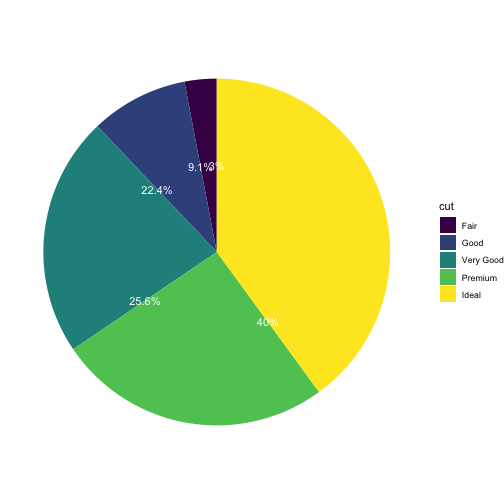
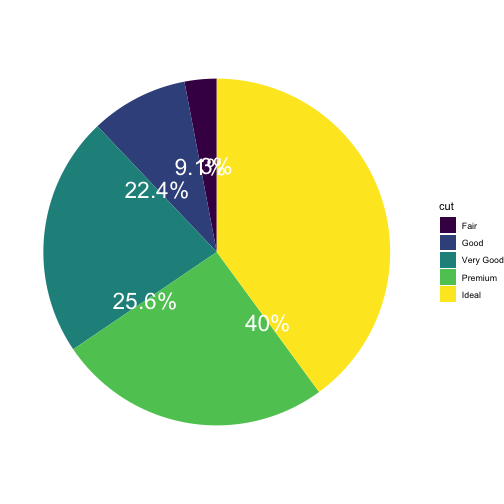
just bigger text

Changed region(s): [[0.2381, 0.2976, 0.4762, 0.4167], [0.2083, 0.5655, 0.3571, 0.625], [0.4762, 0.625, 0.5655, 0.6548]]

diff --git a/2023-11-07-ggplot-pie-charts/ggplot-pie-charts.html b/2023-11-07-ggplot-pie-charts/ggplot-pie-charts.html
@@ -22,7 +22,7 @@ class: inverse, left, bottom
 background-image: url(https://images.unsplash.com/photo-1603779702200-95b2785f2083?q=80&amp;w=1587&amp;auto=format&amp;fit=crop&amp;ixlib=rb-4.0.3&amp;ixid=M3wxMjA3fDB8MHxwaG90by1wYWdlfHx8fGVufDB8fHx8fA%3D%3D)
 background-size: cover
 # .Large[# Making pies in ggplot2]
-## .small[featuring `coord_polar(theta = "y")` and `geom_bar(position = "fill")`]]
+## .small[featuring `coord_polar(theta = "y")` and `geom_bar(position = "fill")`]
 #### .tiny[Gina Reynolds | 2023-10-25 |Image credit: RAPHAEL MAKSIAN, Upsplash]
 ???
 Title 
@@ -195,8 +195,11 @@ ggplot() +
 * stat_count(position = "fill",
 *            geom = "text",
 *            color = "white",
-*            aes(label = after_stat(count*100/sum(count)) |&gt;
-*                  round(1) |&gt; paste0("%")))
+*            size = 8,
+*            aes(label =
+*                  after_stat(count*100/sum(count)) |&gt;
+*                     round(1) |&gt;
+*                     paste0("%")))
 ```
 ]
  
@@ -222,8 +225,11 @@ ggplot() +
   stat_count(position = "fill",
              geom = "text",
              color = "white",
-             aes(label = after_stat(count*100/sum(count)) |&gt;
-                   round(1) |&gt; paste0("%"))) -&gt;
+             size = 8,
+             aes(label =
+                   after_stat(count*100/sum(count)) |&gt;
+                      round(1) |&gt;
+                      paste0("%"))) -&gt;
 * classic_pie
 ```
 ]
@@ -275,6 +281,7 @@ classic_pie +
     stat_count(position = "fill", 
              geom = "text", 
              color = "white",
+             size = 8,
              aes(label = 
                    after_stat(count*100/
                                 sum(count)) |&gt; 
@@ -324,11 +331,11 @@ ggtrace::layer_after_scale(classic_pie, i = 2, verbose = T) %&gt;% data.frame()
 ## 4 #5DC863FF 25.6% 0.6552095 13791    1 0   0.9       FALSE     1     4
 ## 5 #FDE725FF   40% 0.3995365 21551    1 0   0.9       FALSE     1     5
 ##        ymax xmin xmax      ymin colour size angle hjust vjust alpha family
-## 1 1.0000000    0    0 0.9701520  white 3.88     0   0.5   0.5    NA       
-## 2 0.9701520    0    0 0.8791991  white 3.88     0   0.5   0.5    NA       
-## 3 0.8791991    0    0 0.6552095  white 3.88     0   0.5   0.5    NA       
-## 4 0.6552095    0    0 0.3995365  white 3.88     0   0.5   0.5    NA       
-## 5 0.3995365    0    0 0.0000000  white 3.88     0   0.5   0.5    NA       
+## 1 1.0000000    0    0 0.9701520  white    8     0   0.5   0.5    NA       
+## 2 0.9701520    0    0 0.8791991  white    8     0   0.5   0.5    NA       
+## 3 0.8791991    0    0 0.6552095  white    8     0   0.5   0.5    NA       
+## 4 0.6552095    0    0 0.3995365  white    8     0   0.5   0.5    NA       
+## 5 0.3995365    0    0 0.0000000  white    8     0   0.5   0.5    NA       
 ##   fontface lineheight
 ## 1        1        1.2
 ## 2        1        1.2
